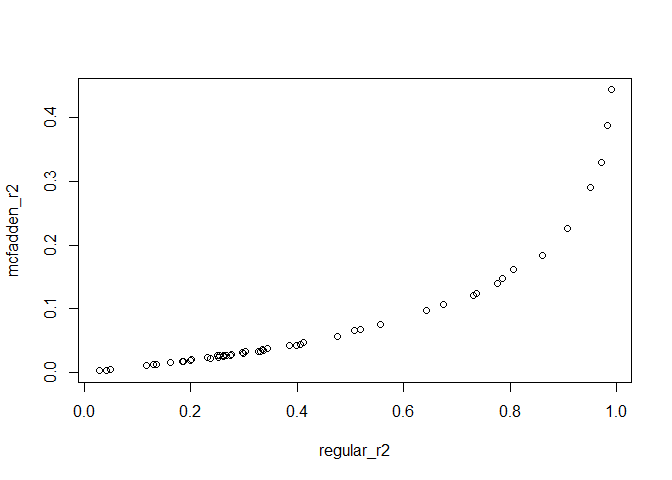
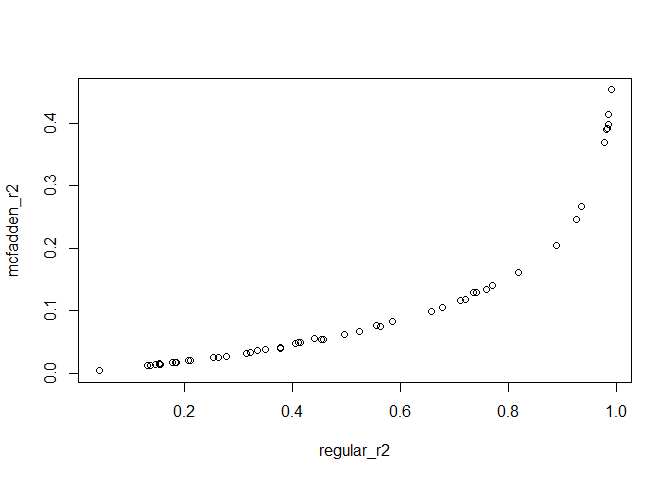
small correction

diff --git a/Markdowns/pseudo_r2s.md b/Markdowns/pseudo_r2s.md
@@ -22,26 +22,10 @@ model0 <- lm(y~1)
 
 regular_r2 <- summary(model)$r.squared
 mcfadden_r2 <- c(1 - (logLik(model)/logLik(model0)))
-Cohen_r2 <- (deviance(model0) - deviance(model))/ deviance(model0)
-
-regular_r2
+LR_r2 <- (deviance(model0) - deviance(model))/ deviance(model0)
 ```
 
-    ## [1] 0.5811655
-
-``` r
-mcfadden_r2
-```
-
-    ## [1] 0.08131167
-
-``` r
-Cohen_r2
-```
-
-    ## [1] 0.5811655
-
-Now lets simulate some scenarios and see how things vary acoording to a
+Now lets simulate some scenarios and see how things vary according to a
 large variation in r² values.
 
 ``` r
@@ -49,7 +33,7 @@ sds <- runif(50, max = 100, min = 1)
 
 regular_r2 <- rep(NA, 50)
 mcfadden_r2 <- rep(NA, 50) 
-Cohen_r2 <- rep(NA, 50)
+LR_r2 <- rep(NA, 50)
   
 for (i in 1:50){
   x <- runif(50, min = 0, max = 100)
@@ -60,7 +44,7 @@ for (i in 1:50){
 
   regular_r2[i] <- summary(model)$r.squared
   mcfadden_r2[i] <- c(1 - (logLik(model)/logLik(model0)))
-  Cohen_r2[i] <- (deviance(model0) - deviance(model))/ deviance(model0)
+  LR_r2[i] <- (deviance(model0) - deviance(model))/ deviance(model0)
 }
 
 plot(mcfadden_r2 ~ regular_r2)
@@ -69,10 +53,12 @@ plot(mcfadden_r2 ~ regular_r2)
 ![](pseudo_r2s_files/figure-gfm/unnamed-chunk-3-1.png)<!-- -->
 
 ``` r
-plot(Cohen_r2 ~ regular_r2)
+plot(LR_r2 ~ regular_r2)
 ```
 
 ![](pseudo_r2s_files/figure-gfm/unnamed-chunk-3-2.png)<!-- -->
 
-Cohen R² seems to make a better job in terms os linear scaling and
-similarity to absolute values.
+Likelyhood R² seems to make a better job in terms of linear scaling and
+similarity to absolute values. But it has a problem of having a maximum
+of less than 1 for logistic regression. the function r.squaredLR from
+the MuMIn package offers a correction.
